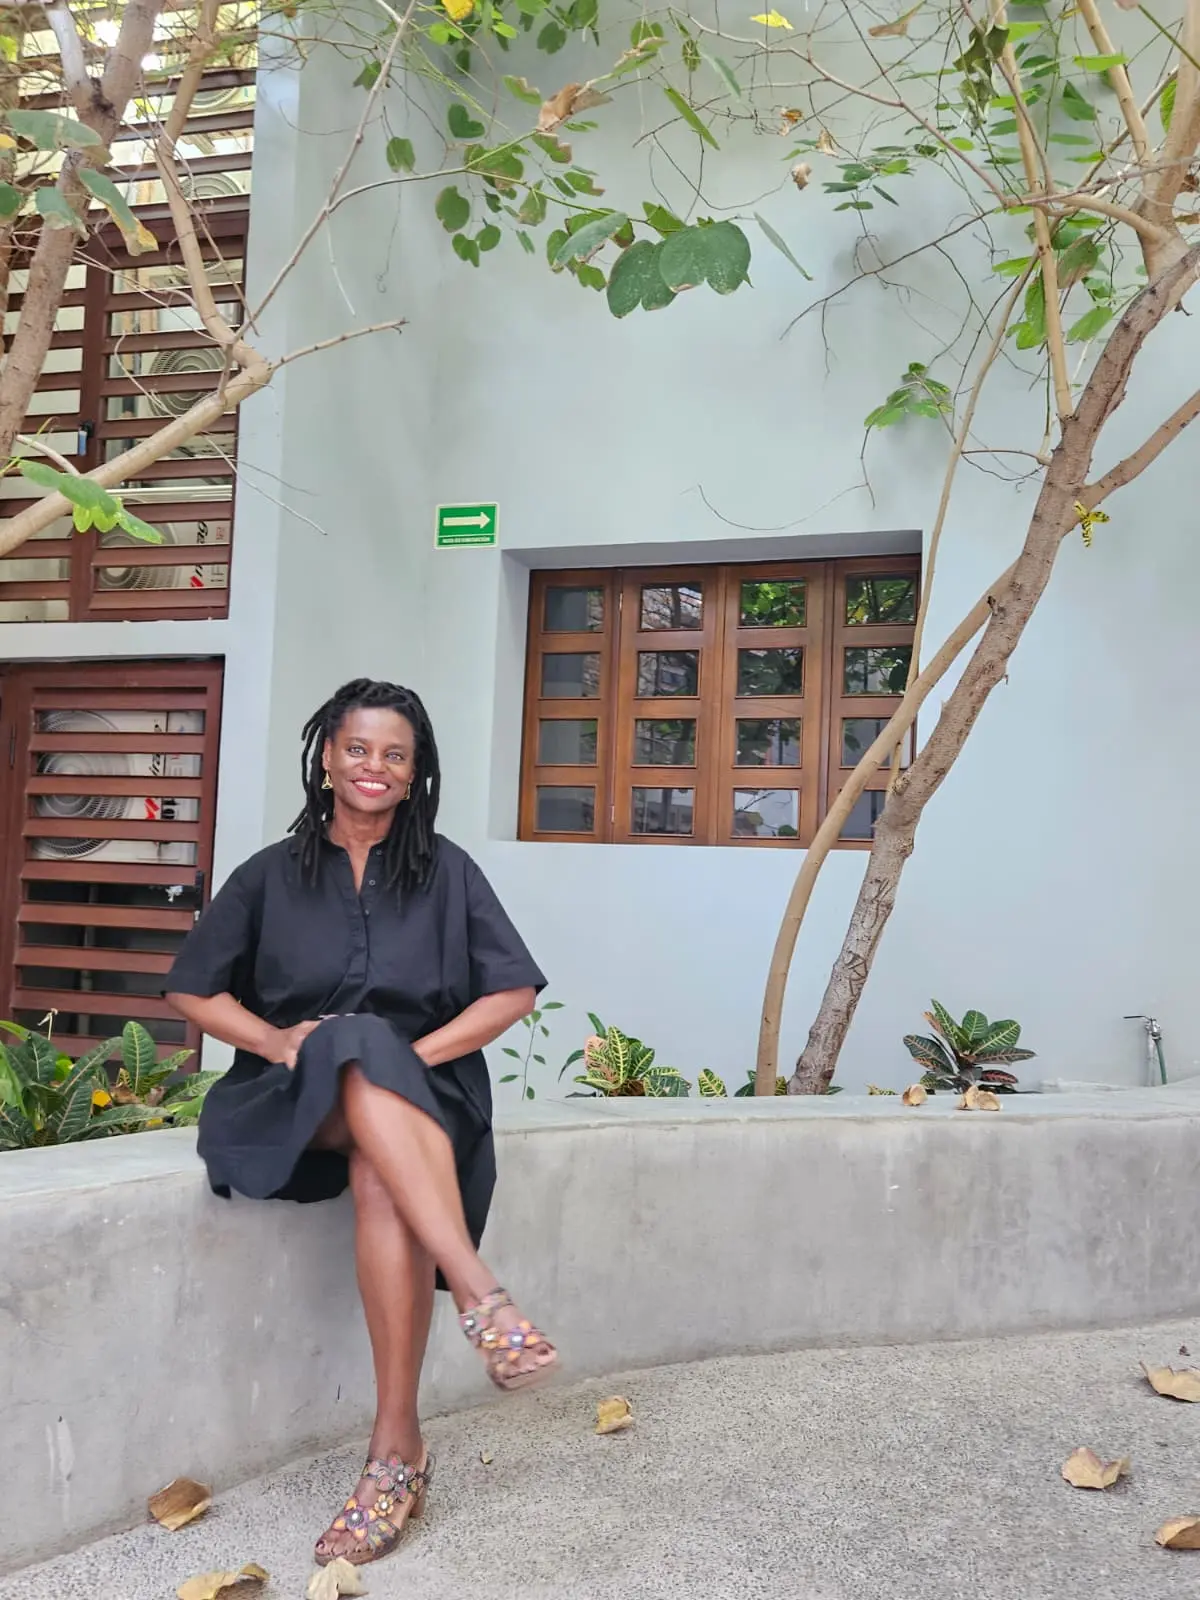
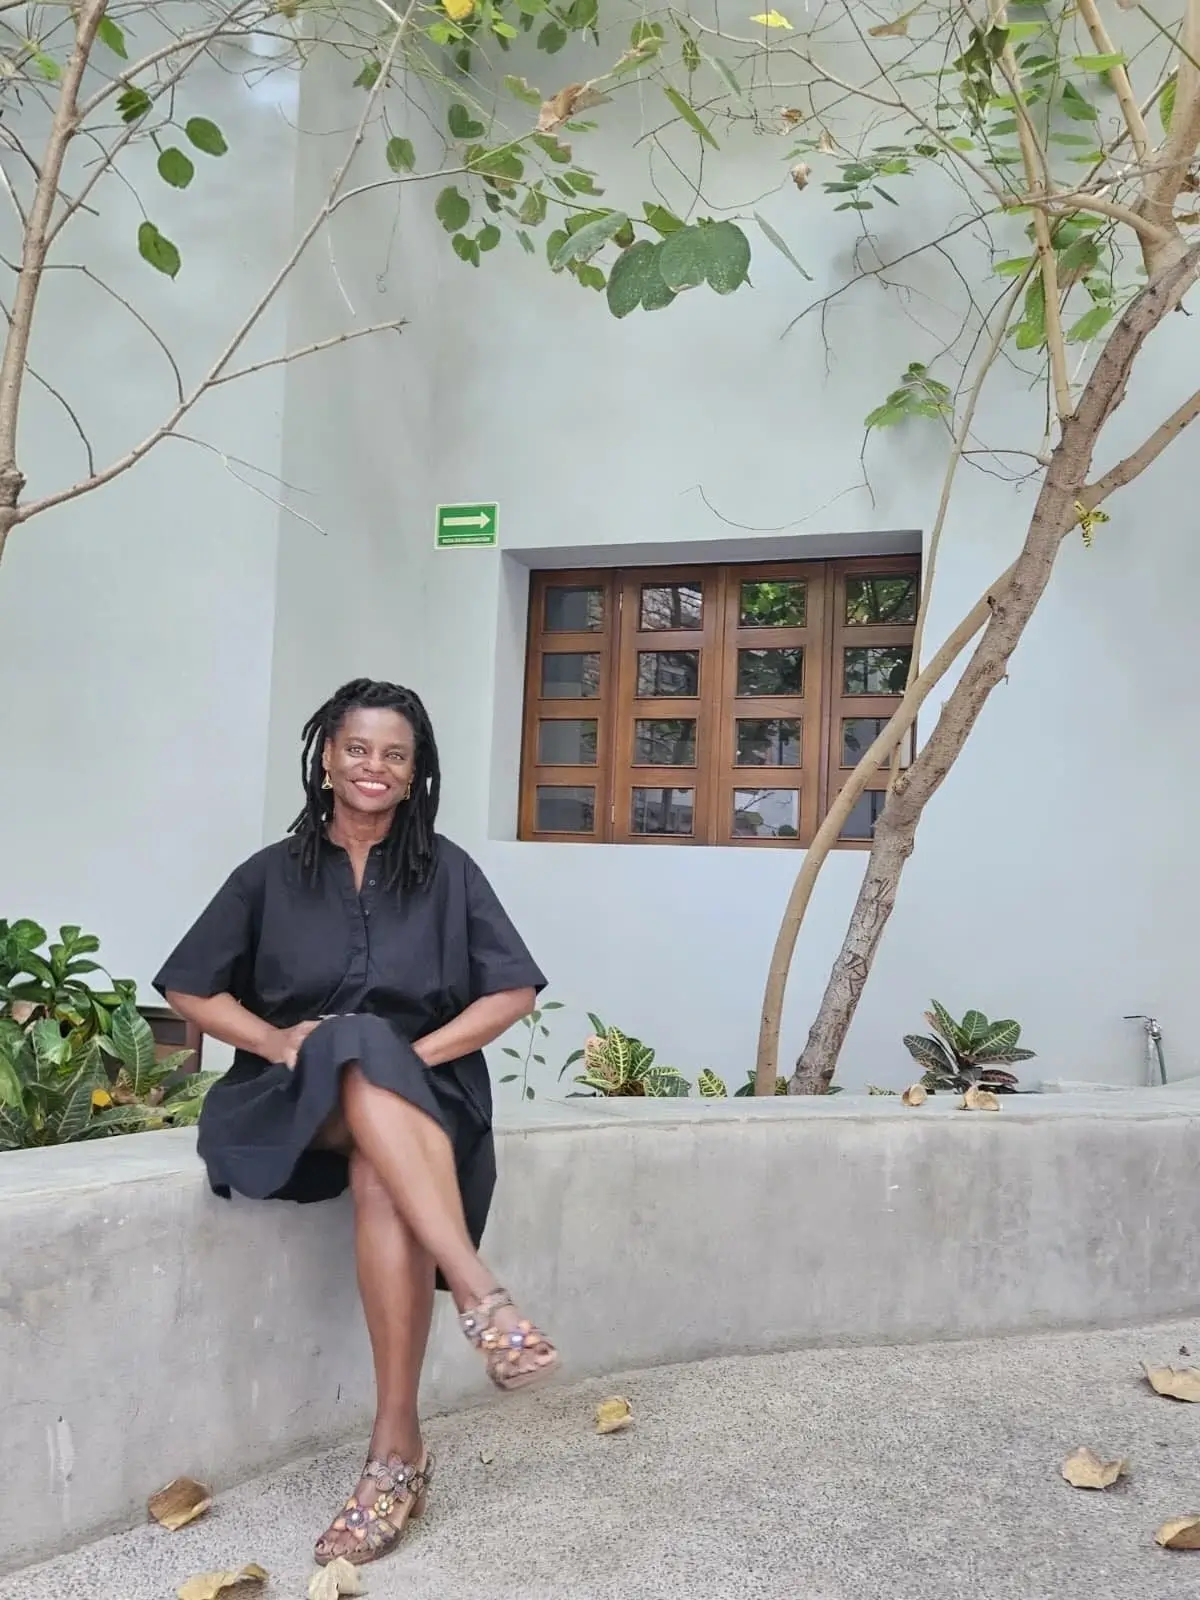
image changed

diff --git a/next.config.ts b/next.config.ts
@@ -1,9 +1,13 @@
 import type { NextConfig } from "next";
+import path from "path";
 
 const nextConfig: NextConfig = {
   output: 'export',
   images: {
     unoptimized: true,
+  },
+  turbopack: {
+    root: path.resolve(__dirname),
   },
 };
 
